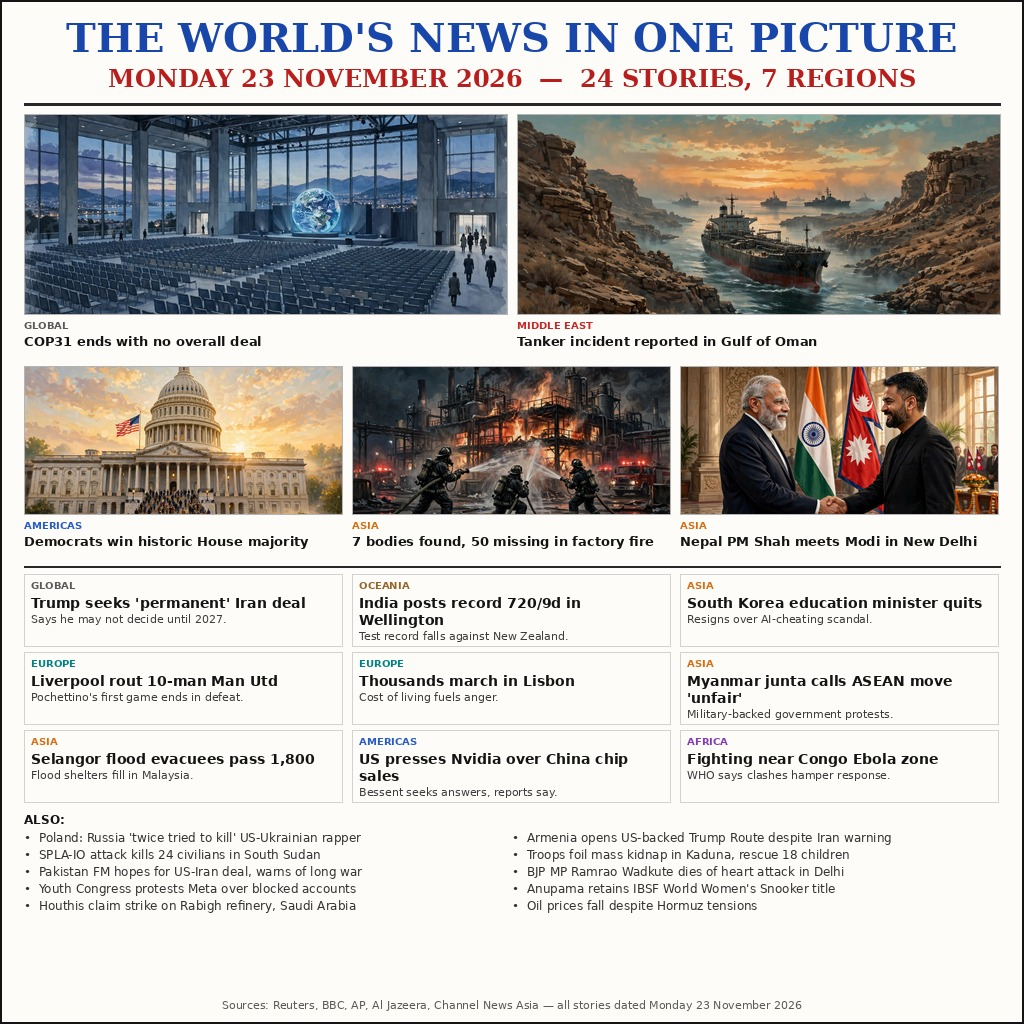
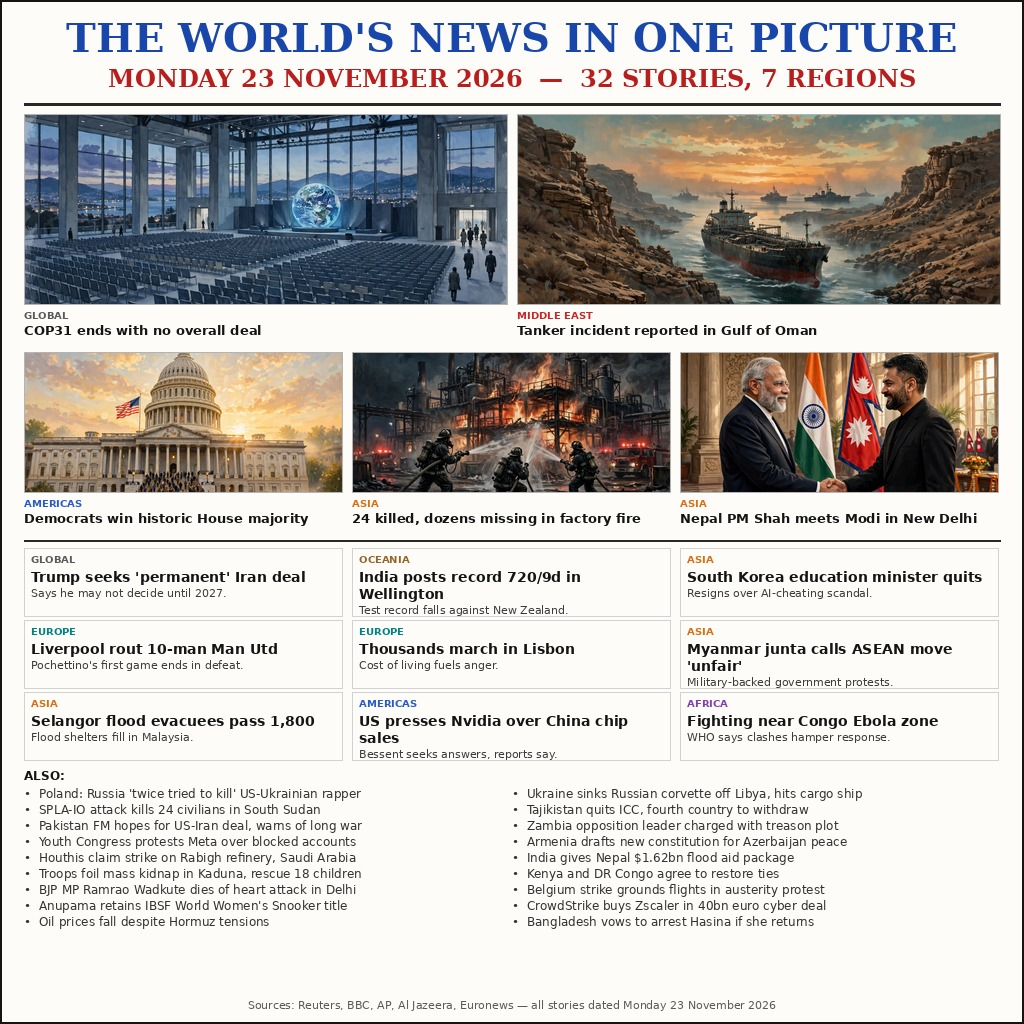
news-image-20261123 submit #2: hybrid, 32 stories from Monday 23 November 2026

Changed region(s): [[0.0, 0.0938, 1.0, 0.9062], [0.2188, 0.9688, 0.7812, 1.0], [0.5625, 0.0625, 0.5938, 0.0938]]

diff --git a/main.py b/main.py
@@ -1,72 +1,82 @@
 #!/usr/bin/env python3
-"""Write the NI23 front page to the grader output directory.
+"""Emit the NI23 submit-#2 front page as the contest output image.
 
-The picture itself is bundled with this repository (assets/entry.jpg,
-a 1024x1024 JPEG under 1 MiB). This program only checks that the bundled
-bytes are a complete JPEG of the expected frame and copies them to
-``$MAKEFUN_OUTPUT_DIR/entry.png`` (default ``/output``). Standard library
-only: no network, no third-party imports, deterministic output.
+The page itself ships inside this repository as ``assets/entry.jpg``:
+a 1024x1024 JPEG (under 1 MiB) summing up 32 verified stories from
+Monday 23 November 2026 — five illustrated leads, nine text cards and
+eighteen one-liners, under a blue masthead and a red dateline.
+
+This script does no drawing and needs no network. It loads the bundled
+JPEG, proves it is one whole JPEG of the expected frame by walking its
+marker segments, and copies those exact bytes to
+``$MAKEFUN_OUTPUT_DIR/entry.png`` (``/output`` when unset), with mode
+0644 so the grader can read it. Standard library only, so it runs in
+the grader's bare Python 3.13 sandbox, and two runs write identical
+bytes because the payload never changes.
 """
 
 import os
 import stat
 import sys
 
-BUNDLED = os.path.join(os.path.dirname(os.path.abspath(__file__)),
-                       "assets", "entry.jpg")
-EXPECTED_W = 1024
-EXPECTED_H = 1024
-LIMIT = 1048576
+ASSET = os.path.join(os.path.dirname(os.path.abspath(__file__)),
+                     "assets", "entry.jpg")
+WANT_W, WANT_H = 1024, 1024
+MAX_BYTES = 1048576
+SOF_MARKERS = (0xC0, 0xC1, 0xC2)
 
 
-def read_bundled(path):
-    with open(path, "rb") as handle:
-        payload = handle.read()
-    if len(payload) < 4 or len(payload) > LIMIT:
-        raise SystemExit("bundled image has an unexpected size")
-    if payload[0:2] != b"\xff\xd8" or payload[-2:] != b"\xff\xd9":
+def load_asset():
+    with open(ASSET, "rb") as fh:
+        blob = fh.read()
+    if not 4 <= len(blob) <= MAX_BYTES:
+        raise SystemExit("bundled image is outside the size limit")
+    if blob[:2] != b"\xff\xd8" or blob[-2:] != b"\xff\xd9":
         raise SystemExit("bundled image is not a whole JPEG")
-    return payload
+    return blob
 
 
-def frame_size(payload):
-    """Walk JPEG markers until the frame header gives width/height."""
-    pos = 2
-    while pos + 9 <= len(payload):
-        if payload[pos] != 0xFF:
-            raise SystemExit("broken JPEG marker stream")
-        marker = payload[pos + 1]
-        if marker == 0xD8 or marker == 0x01 or 0xD0 <= marker <= 0xD7:
-            pos += 2
+def frame_of(blob):
+    """Return (width, height) from the first start-of-frame segment."""
+    cursor = 2
+    while cursor + 9 <= len(blob):
+        if blob[cursor] != 0xFF:
+            raise SystemExit("JPEG marker stream is broken")
+        tag = blob[cursor + 1]
+        if tag == 0xD8 or tag == 0x01 or 0xD0 <= tag <= 0xD7:
+            cursor += 2
             continue
-        size = int.from_bytes(payload[pos + 2:pos + 4], "big")
-        if size < 2 or pos + 2 + size > len(payload):
-            raise SystemExit("JPEG segment runs past the end of the file")
-        if marker in (0xC0, 0xC1, 0xC2):
-            height = int.from_bytes(payload[pos + 5:pos + 7], "big")
-            width = int.from_bytes(payload[pos + 7:pos + 9], "big")
+        seg_len = int.from_bytes(blob[cursor + 2:cursor + 4], "big")
+        if seg_len < 2 or cursor + 2 + seg_len > len(blob):
+            raise SystemExit("JPEG segment overruns the file")
+        if tag in SOF_MARKERS:
+            height = int.from_bytes(blob[cursor + 5:cursor + 7], "big")
+            width = int.from_bytes(blob[cursor + 7:cursor + 9], "big")
             return width, height
-        pos += 2 + size
-    raise SystemExit("no JPEG frame header found")
+        cursor += 2 + seg_len
+    raise SystemExit("no JPEG frame header in bundled image")
 
 
-def main():
-    payload = read_bundled(BUNDLED)
-    width, height = frame_size(payload)
-    if (width, height) != (EXPECTED_W, EXPECTED_H):
+def emit(blob, width, height):
+    if (width, height) != (WANT_W, WANT_H):
         raise SystemExit("bundled image is not 1024x1024")
-    outdir = os.environ.get("MAKEFUN_OUTPUT_DIR", "/output") or "/output"
-    os.makedirs(outdir, exist_ok=True)
-    target = os.path.join(outdir, "entry.png")
-    with open(target, "wb") as handle:
-        handle.write(payload)
-    os.chmod(target, 0o644)
-    mode = stat.S_IMODE(os.stat(target).st_mode)
-    if mode != 0o644:
+    dest_dir = os.environ.get("MAKEFUN_OUTPUT_DIR", "/output") or "/output"
+    os.makedirs(dest_dir, exist_ok=True)
+    dest = os.path.join(dest_dir, "entry.png")
+    with open(dest, "wb") as fh:
+        fh.write(blob)
+    os.chmod(dest, 0o644)
+    if stat.S_IMODE(os.stat(dest).st_mode) != 0o644:
         raise SystemExit("output file mode is not 0644")
-    print(f"wrote {target} ({len(payload)} bytes, {width}x{height})")
+    print(f"wrote {dest} ({len(blob)} bytes, {width}x{height})")
+
+
+def run():
+    blob = load_asset()
+    width, height = frame_of(blob)
+    emit(blob, width, height)
     return 0
 
 
 if __name__ == "__main__":
-    sys.exit(main())
+    sys.exit(run())

diff --git a/README.md b/README.md
@@ -7,14 +7,24 @@
 One hybrid front page summing up the world's news of Monday 23 November
 2026: COP31 breaks down without an overall deal, the Democrats take the
 House in a historic majority, and tensions simmer around the Strait of
-Hormuz — 24 verified stories in all. Five illustrated leads anchor the
-page, nine text cards and ten one-liners carry the rest, across seven
+Hormuz — 32 verified stories in all. Five illustrated leads anchor the
+page, nine text cards and eighteen one-liners carry the rest, across seven
 regions, under a blue masthead and a red dateline.
 
+Submit #2 builds on submit #1 (24 stories, round 1: 59.02%): the five
+leads are kept, the factory-fire lead now carries the Reuters toll
+reported on 23 November (24 killed, dozens missing), and nine fresh
+23 November stories join as one-liners — Ukraine sinking a Russian
+corvette off Libya, Tajikistan leaving the ICC, Zambia's treason charge,
+Armenia's draft constitution, India's $1.62bn aid to Nepal, Kenya–DR
+Congo restoring ties, Belgium's austerity strike, the CrowdStrike–
+Zscaler deal, and Bangladesh's vow over Hasina's return.
+
 The layout keeps the pictures up front and the text tight: every card
-headline fits in two lines, every card body in one, so nothing is cut off
-mid-phrase. The five illustrations are original AI-generated artwork with
-no text inside them; every story is dated Monday 23 November 2026.
+headline fits in two lines, every card body in one, every one-liner in
+one, so nothing is cut off mid-phrase. The five illustrations are
+original AI-generated artwork with no text inside them; every story is
+dated Monday 23 November 2026.
 
 ## Run it
 
